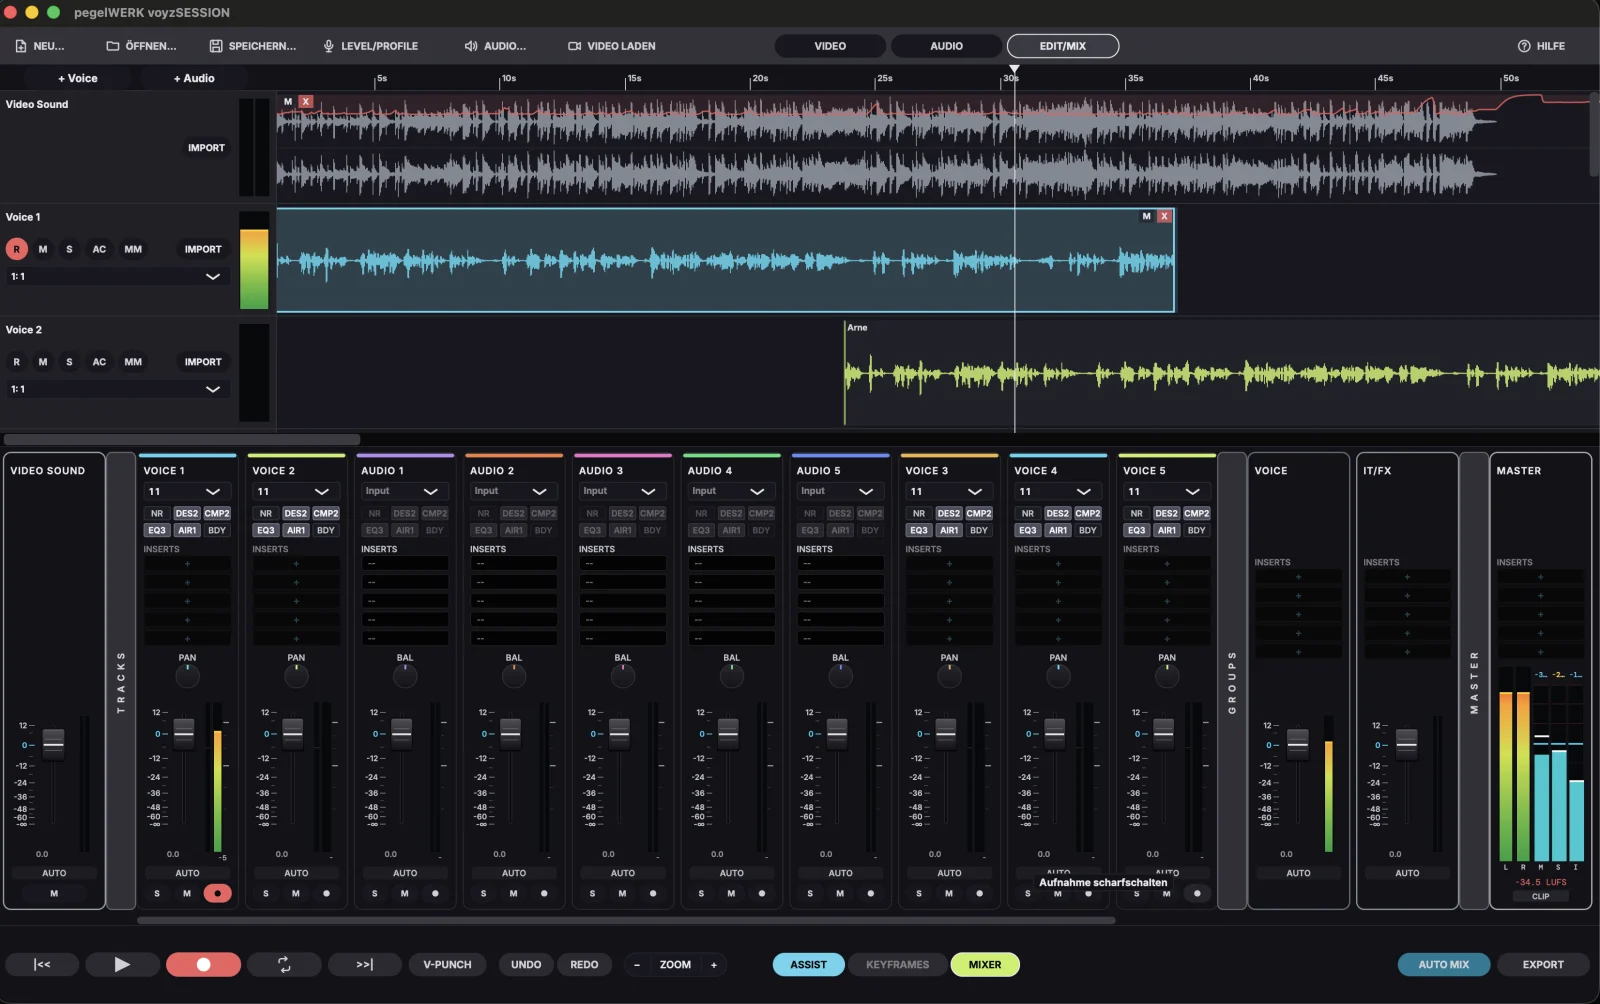
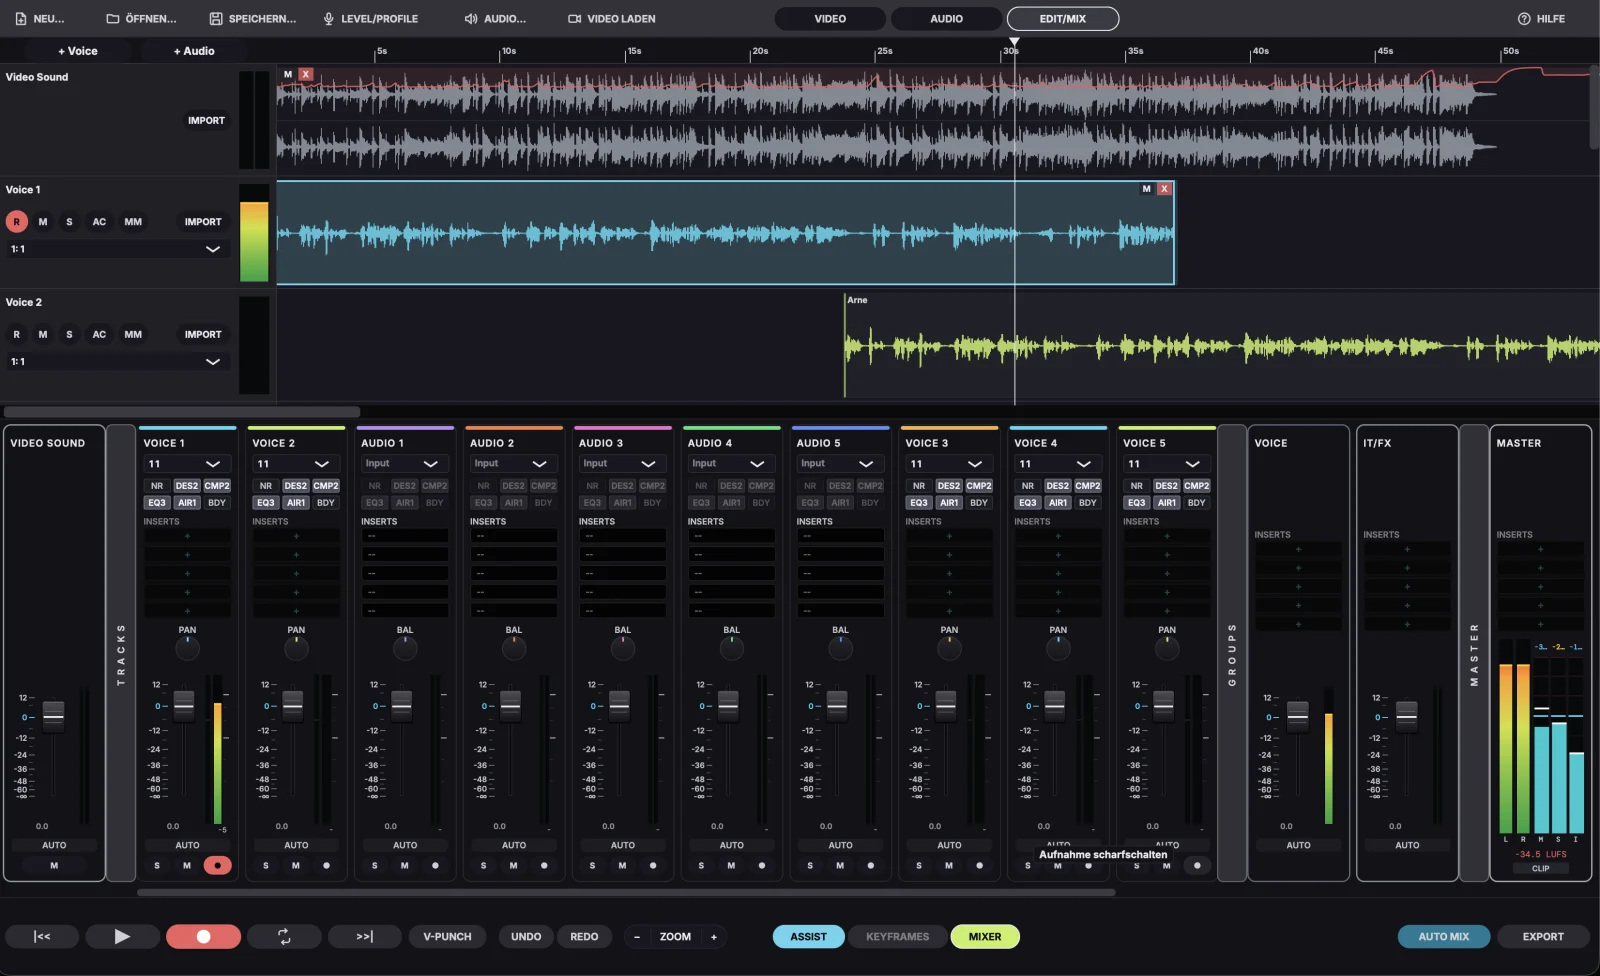
Let the voyzSESSION shot fill its card, without the title bar
Zwei Sachen am selben Bild.

Die Raender links und rechts kamen von `object-fit: contain` in der
Kachel: das Bild ist 1.59 breit, die Kachel 16/9 = 1.78, also blieben
Balken stehen. Die Kachel bekommt jetzt `cover` — aber NUR diese eine.
Global waere es ein Fehler: loudness CORRECT ist Hochformat (0.84) und
wuerde zu einem schmalen Streifen zerschnitten.

Die macOS-Titelleiste mit den drei Punkten ist aus der VORLAGE
geschnitten, nicht per CSS versteckt — 58 px, gemessen am Helligkeits-
sprung zur Menuezeile. Damit ist sie ueberall weg, wo das Bild auftaucht,
und der Beschnitt der Kachel frisst nicht mehr die Menuezeile. Nebenbei
verschwindet damit auch der Fenstertitel, der noch "voyzSESSION" ohne PRO
las.

diff --git a/mac.html b/mac.html
@@ -110,6 +110,13 @@ nav{position:sticky;top:0;z-index:100;display:flex;align-items:center;justify-co
 .card:hover{transform:translateY(-4px);box-shadow:0 20px 60px rgba(0,0,0,.5)}
 .card-img{display:block;width:100%;aspect-ratio:16/9;overflow:hidden;position:relative;background:#08090a;text-decoration:none}
 .card-img img{width:100%;height:100%;object-fit:contain;display:block;transition:transform .5s ease}
+/* Randlos NUR dort, wo das Bild breiter als hoch ist und der Beschnitt nichts
+   kostet. contain liess beim voyzSESSION-Screenshot links und rechts Balken
+   stehen (Bild 1.59, Kachel 1.78). Beschnitten wird ausschliesslich OBEN
+   (object-position 100%): weg faellt die Titelleiste, drin bleibt die
+   Transportleiste mit V-PUNCH, AUTO MIX und EXPORT. Nicht global setzen —
+   loudness CORRECT ist Hochformat und wuerde zu einem Streifen zerschnitten. */
+.card-img.bleed img{object-fit:cover;object-position:50% 100%}
 .card:hover .card-img img{transform:scale(1.03)}
 .card-tag{position:absolute;top:14px;left:14px;font-size:8px;letter-spacing:1.5px;text-transform:uppercase;
  padding:4px 10px;border-radius:3px;font-weight:500;background:rgba(10,10,11,.7);color:var(--ac);
@@ -250,8 +257,8 @@ h1,h2,h3,h4,h5,p,li{text-wrap:balance}
 
  <!-- ╔══ voyzSESSION PRO (Standalone macOS + Mac App) ══════════╗ -->
  <div class="card">
- <a href="voyzsession.html" class="card-img">
- <img src="img-voyzsession-pro.webp?v=1" alt="pegelWERK voyzSESSION PRO, zur Detailseite">
+ <a href="voyzsession.html" class="card-img bleed">
+ <img src="img-voyzsession-pro.webp?v=2" alt="pegelWERK voyzSESSION PRO, zur Detailseite">
  </a>
  <div class="card-body">
  <div class="card-name">voyzSESSION PRO</div>

diff --git a/index.html b/index.html
@@ -101,6 +101,9 @@ nav{position:sticky;top:0;z-index:100;display:flex;align-items:center;justify-co
 .platform-card:hover{transform:translateY(-4px);box-shadow:0 20px 60px rgba(0,0,0,.5);border-color:rgba(182,227,74,.2)}
 .platform-card-img{display:block;width:100%;aspect-ratio:16/9;overflow:hidden;background:#08090a;position:relative}
 .platform-card-img img{width:100%;height:100%;object-fit:contain;display:block;transition:transform .5s ease}
+/* Wie auf /mac: der Screenshot fuellt die Kachel randlos, beschnitten wird nur
+   oben (Titelleiste). Nur auf der Mac-Kachel — das iPad-Bild vertraegt es nicht. */
+.platform-card-img.bleed img{object-fit:cover;object-position:50% 100%}
 .platform-card:hover .platform-card-img img{transform:scale(1.04)}
 .platform-card-body{padding:28px 28px 32px;display:flex;flex-direction:column;flex:1}
 .platform-tag{font-family:'Inter',sans-serif;font-size:9px;letter-spacing:2px;text-transform:uppercase;color:var(--ac);margin-bottom:14px;display:block}
@@ -275,8 +278,8 @@ h1,h2,h3,h4,h5,p,li{text-wrap:balance}
 <section class="platforms" id="platforms">
  <div class="platforms-grid">
  <a href="/mac" class="platform-card">
- <div class="platform-card-img">
- <img src="img-voyzsession-pro.webp?v=1" alt="Mac Apps, Standalone für macOS">
+ <div class="platform-card-img bleed">
+ <img src="img-voyzsession-pro.webp?v=2" alt="Mac Apps, Standalone für macOS">
  </div>
  <div class="platform-card-body">
  <span class="platform-tag">macOS</span>

diff --git a/voyzsession.html b/voyzsession.html
@@ -37,8 +37,8 @@
  "applicationSubCategory": "Voice Recording & Broadcast Mixing",
  "operatingSystem": "macOS 12+",
  "url": "https://pegelwerk.com/voyzsession",
- "image": "https://pegelwerk.com/img-voyzsession-pro.webp?v=1",
- "screenshot": "https://pegelwerk.com/img-voyzsession-pro.webp?v=1",
+ "image": "https://pegelwerk.com/img-voyzsession-pro.webp?v=2",
+ "screenshot": "https://pegelwerk.com/img-voyzsession-pro.webp?v=2",
  "offers": [
  {
  "@type": "Offer",
